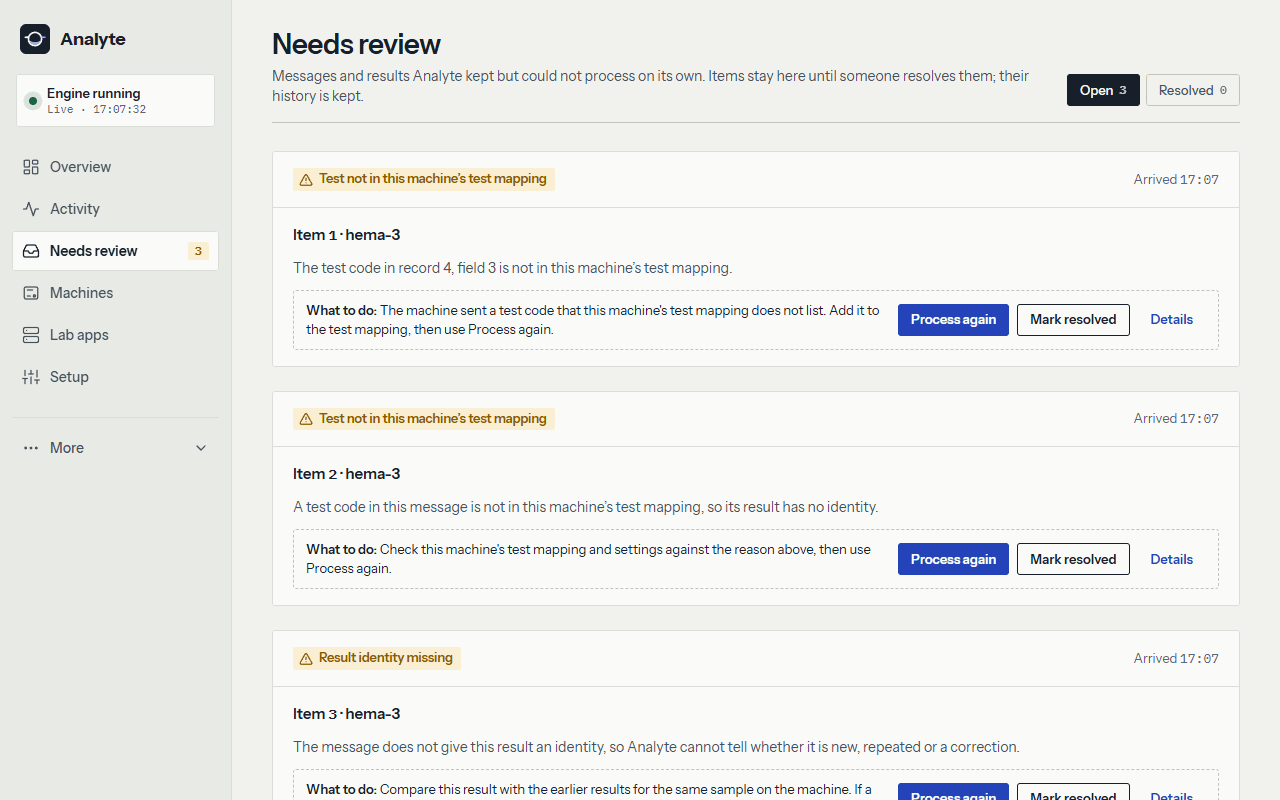
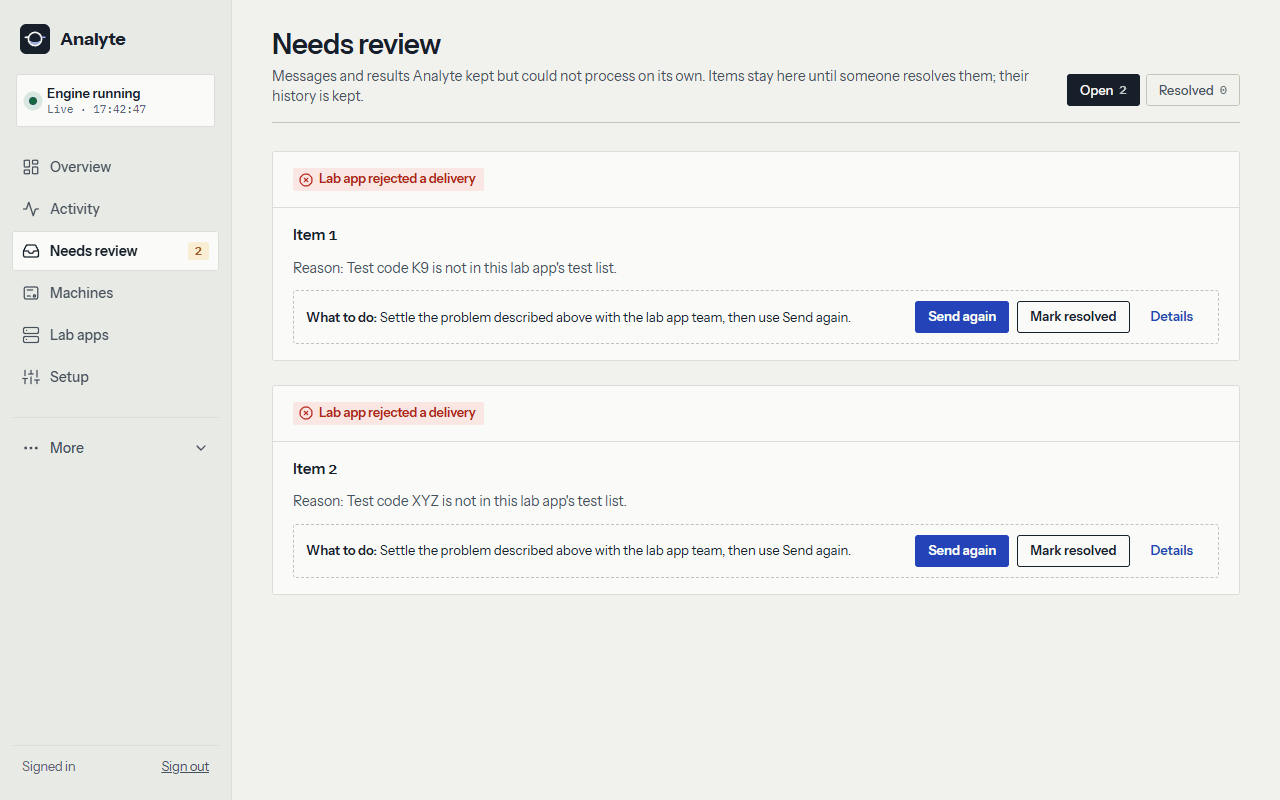
docs: show a lab app refusal on Needs review in the README media
ADR 0029 removed the test-code table, so an unlisted code is no longer
parked; a delivery the lab app refuses is. The demo GIF's last step and
the Needs review screenshot now show the lab app (the reference receiver)
refusing two test codes it does not know, parked as "Lab app rejected a
delivery". Size, theme, captions style and the 17-second length are kept.
The other five screenshots do not show the old wording and are unchanged.

diff --git a/README.md b/README.md
@@ -11,7 +11,7 @@ orders from the lab app and hands them to the machines.
 > with synthetic data (*documented* level). No machine has been tested on real
 > hardware yet; that comes with the first lab pilot ([the plan](docs/plan.md)).
 
-![A short tour of the Analyte admin pages: the Overview says all good, a synthetic machine sends a result, the Activity page shows it stored and delivered to the lab app, the Overview stays green, and a result with an unknown test code is parked on Needs review](docs/images/demo.gif)
+![A short tour of the Analyte admin pages: the Overview says all good, a synthetic machine sends a result, the Activity page shows it stored and delivered to the lab app, the Overview stays green, and results the lab app refuses because it does not know their test codes are parked on Needs review](docs/images/demo.gif)
 
 *A result goes from a machine, through Analyte, to the lab app (synthetic data).*
 
@@ -80,12 +80,13 @@ On Linux the engine is a systemd service ([Linux packaging](packaging/linux/READ
 ## A look at it
 
 Synthetic data only. The lab app is the [reference receiver](crates/testing/receiver/),
-so results are delivered and the Overview is green.
+so results are delivered and the Overview is green. For Needs review it was set
+to refuse two test codes it does not know.
 
 | | |
 | --- | --- |
-| ![The Overview page saying All good: three connected machines, the signal path through Analyte, and the lab app up to date](docs/images/overview-light.png) | ![The Needs review page with parked items for a test code that is not in the machine's test mapping, each with Process again and Mark resolved](docs/images/needs-review-light.png) |
-| **Overview**: all good, and the path from machines to lab app | **Needs review**: parked items, with what to do next |
+| ![The Overview page saying All good: three connected machines, the signal path through Analyte, and the lab app up to date](docs/images/overview-light.png) | ![The Needs review page with two deliveries the lab app rejected because their test codes are not in its test list, each with Send again and Mark resolved](docs/images/needs-review-light.png) |
+| **Overview**: all good, and the path from machines to lab app | **Needs review**: deliveries the lab app refused, with what to do next |
 | ![The Machines page in dark mode: three machines, all connected, with their last data and lab app](docs/images/machines-dark.png) | ![The Deliveries page in dark mode: each result with its sample ID, machine and lab app, all delivered](docs/images/deliveries-dark.png) |
 | **Machines** (dark): each connection and its last data | **Deliveries** (dark): every result delivered to the lab app |
 | ![The Activity page: a live feed of messages stored and results delivered, sample IDs and counts only](docs/images/activity-light.png) | ![The Setup page: the machines on this PC, all running, and the supported machine models with their readiness](docs/images/setup-light.png) |
